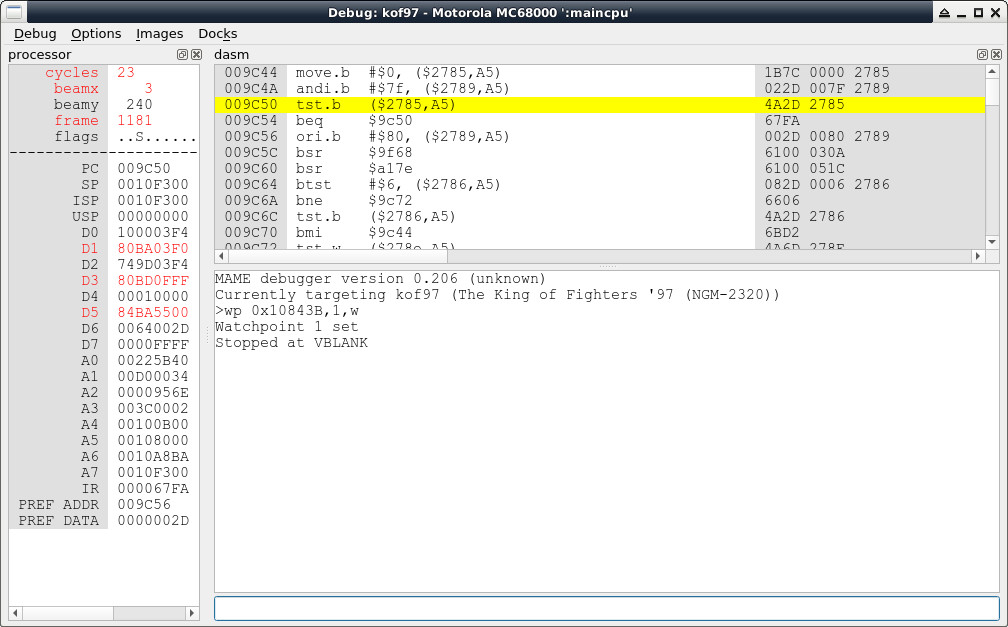
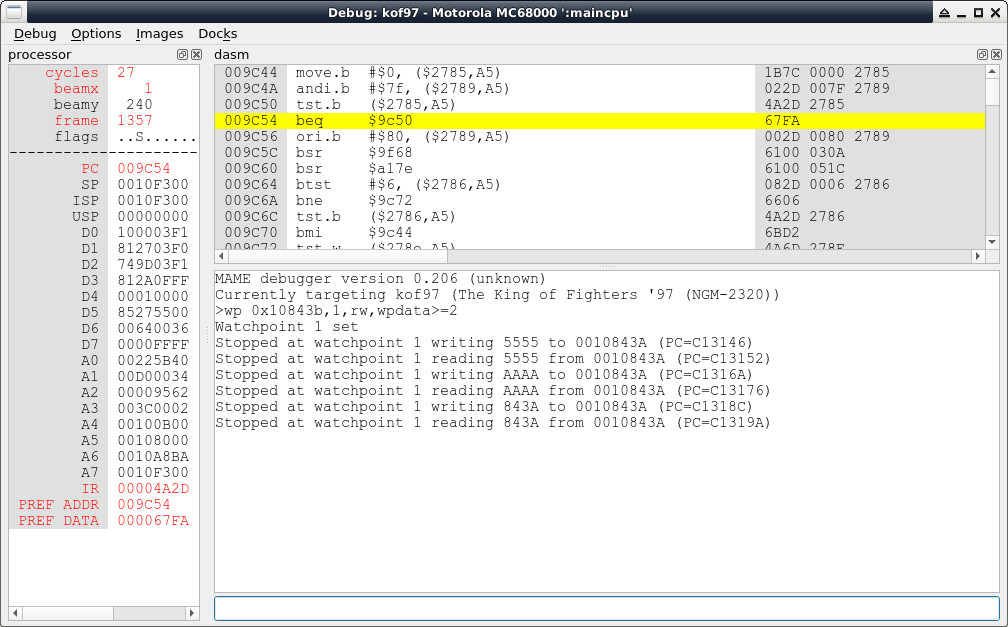
MAME Refined.

diff --git a/reverse/mame/kof97_p2hit.htm b/reverse/mame/kof97_p2hit.htm
@@ -61,12 +61,17 @@ $ mame kof97.zip -debug -resolution 320x240
 可以設定WatchPoint的地方<br>
 <img src="kof97_p2hit/1.jpg" class="maxSize"><br><br>
 
-按下F11並且輸入<b>wp 0x10843B,1,w</b>，接著再按下F5執行<br>
+<b>wp 0x10843b,1,rw,wpdata>=2</b><br>
 <img src="kof97_p2hit/2.jpg" class="maxSize"><br><br>
 
 P2被攻擊後<br>
-<img src="kof97_p2hit/3.jpg" class="maxSize"><br>
-<img src="kof97_p2hit/4.jpg" class="maxSize">
+<img src="kof97_p2hit/3.jpg" class="maxSize"><br><br>
+
+觸發中斷<br>
+<img src="kof97_p2hit/4.jpg" class="maxSize"><br><br>
+
+<b>ctrl + m</b>可以用來查看記憶體<br>
+<img src="kof97_p2hit/5.jpg" class="maxSize">
 </p>
 
 <p>
